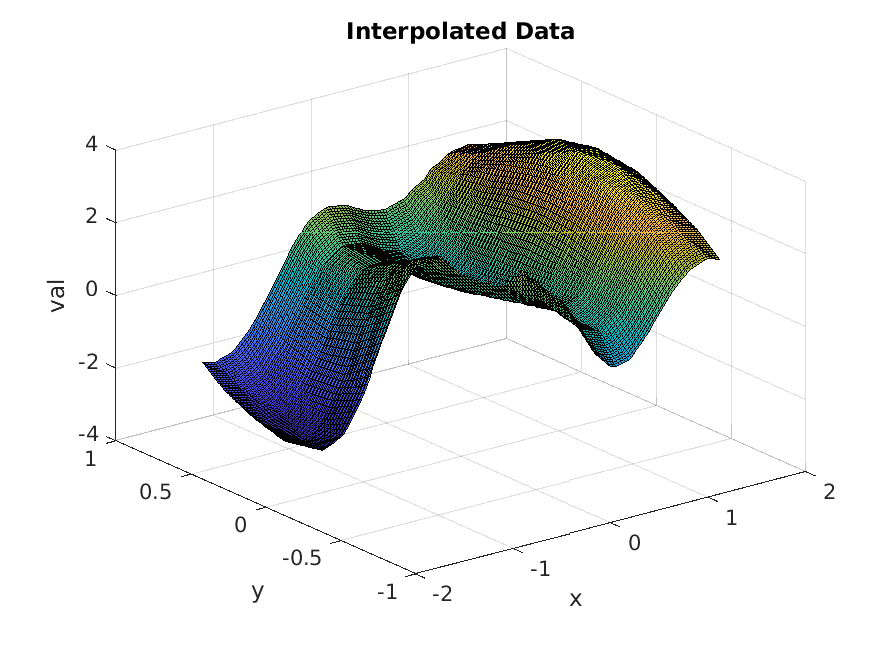
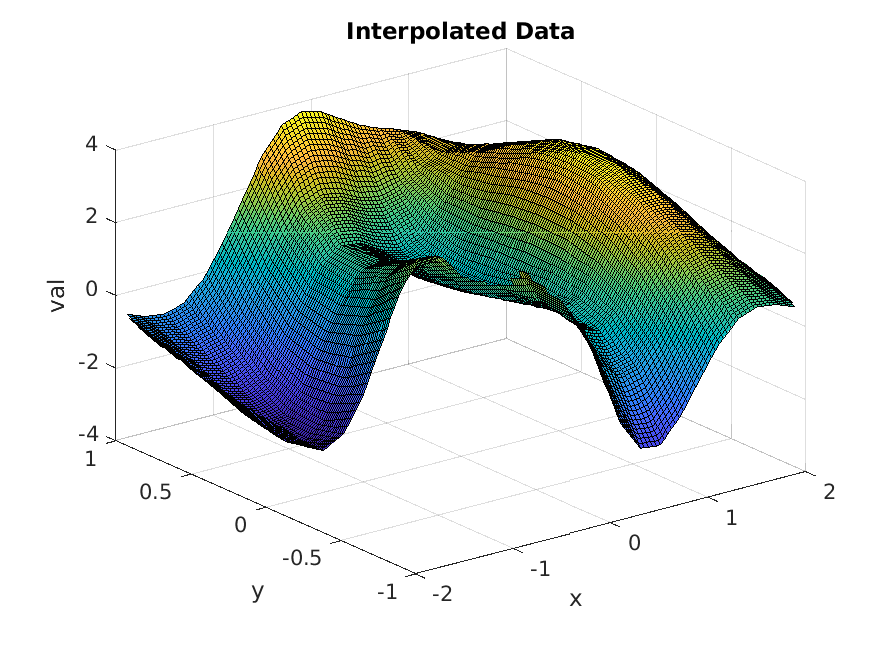
interpolation range

Changed region(s): [[0.1515, 0.155, 0.9091, 0.7132]]

diff --git a/run_example.m b/run_example.m
@@ -8,6 +8,9 @@ addpath(genpath('fct'))
 
 %% get the triangulation
 
+% plot the triangulation
+make_plot = false;
+
 % stretching factor
 scale.scale_x = 2.0; % stretching factor in x direction for computing the triangulation
 scale.scale_y = 1.0; % stretching factor in y direction for computing the triangulation
@@ -18,17 +21,17 @@ scale.scale_y = 1.0; % stretching factor in y direction for computing the triang
 tolerance.alpha = 0.2; % alpha radius (see alphaShape, 'Inf' for full triangulation)
 tolerance.hole_threshold = 0; % maximum interior holes (see alphaShape, '0' for desactivating)
 tolerance.region_threshold = 0; % maximum regions (see alphaShape, '0' for desactivating)
-[tri_obj, idx] = get_triangulation_create(x, y, scale, tolerance, true);
+[tri_obj, idx] = get_triangulation_create(x, y, scale, tolerance, make_plot);
 
 % remove triangles with bad angles
 tolerance.type = 'angle'; % remove using the angles
 tolerance.tol_angle = deg2rad(30); % angle tolerance for defined bad triangles
-[tri_obj, idx] = get_triangulation_remove(tri_obj, idx, scale, tolerance, true);
+[tri_obj, idx] = get_triangulation_remove(tri_obj, idx, scale, tolerance, make_plot);
 
 % remove manually some triangles
 tolerance.type = 'idx'; % remove using the indices
 tolerance.idx_rm = 33; % indices of the bad triangles
-[tri_obj, idx] = get_triangulation_remove(tri_obj, idx, scale, tolerance, true);
+[tri_obj, idx] = get_triangulation_remove(tri_obj, idx, scale, tolerance, make_plot);
 
 % if vertices have been removed, remove the corresponding data
 val = val(idx);
@@ -55,8 +58,8 @@ title('Triangulated Data')
 %% interpolate
 
 % query points
-x_vec = linspace(-1.5, +1.5, 100);
-y_vec = linspace(-0.75, +0.75, 150);
+x_vec = linspace(-2.0, +2.0, 100);
+y_vec = linspace(-1.0, +1.0, 150);
 
 % interpolate (ndgrid format)
 val_mat = get_interpolation_grid(tri_obj, val, x_vec, y_vec);
